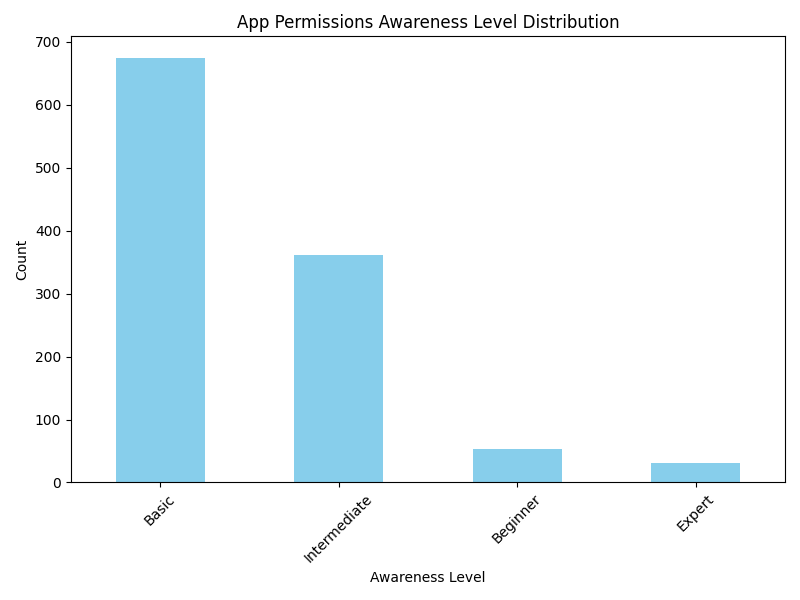
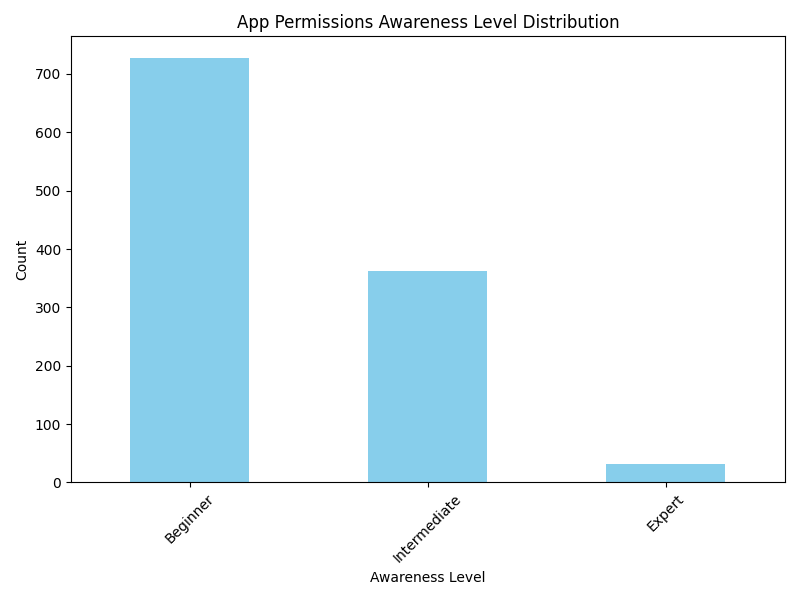
okk

diff --git a/app_permissions_educational_resources.py b/app_permissions_educational_resources.py
@@ -126,17 +126,17 @@ class AppPermissionsEducationalManager:
             score = float(quiz_score)
         except Exception:
             return "Beginner"
-        if score <= 30:
+        if score < 50:
             return "Beginner"
-        if score <= 70:
+        if score < 75:
             return "Intermediate"
-        return "Advanced"
+        return "Expert"
 
     def _expand_by_level(self, level: str, count: int = 1000) -> List[Dict]:
         variations = {
             "Beginner": ["Basics", "Getting Started", "Intro Guide", "Tips", "Foundations"],
             "Intermediate": ["Practical Use", "Manager Setup", "2FA Workflows", "Examples", "Hands-on"],
-            "Advanced": ["Threat Modeling", "Automation", "Hardware Keys", "Security Audits", "Zero Trust"]
+            "Expert": ["Threat Modeling", "Automation", "Hardware Keys", "Security Audits", "Zero Trust"]
         }
         expanded = []
         idx = 1
@@ -161,7 +161,7 @@ class AppPermissionsEducationalManager:
         return {
             "Beginner": self._expand_by_level("Beginner", 1000),
             "Intermediate": self._expand_by_level("Intermediate", 1000),
-            "Advanced": self._expand_by_level("Advanced", 1000)
+            "Expert": self._expand_by_level("Expert", 1000)
         }
 
     def generate_personalized_content(self, weak_areas: Optional[List[str]], knowledge_level: str) -> str:
@@ -206,7 +206,7 @@ class AppPermissionsEducationalManager:
         next_steps = {
             "Beginner": "Next step: Finish Beginner track; create a strong passphrase and install a password manager.",
             "Intermediate": "Next step: Practice manager workflows and enable 2FA on major accounts.",
-            "Advanced": "Next step: Implement automated rotation, hardware keys, and audit your secrets vault."
+            "Expert": "Next step: Implement automated rotation, hardware keys, and audit your secrets vault."
         }
         parts.append(next_steps.get(knowledge_level,
                      "Keep improving your security posture."))

diff --git a/app_permissions_model_trainer.py b/app_permissions_model_trainer.py
@@ -351,8 +351,6 @@ class AppPermissionsModelTrainer:
                 return 'Expert'
             elif percentage >= 50:
                 return 'Intermediate'
-            elif percentage >= 25:
-                return 'Basic'
             else:
                 return 'Beginner'
 
@@ -464,7 +462,8 @@ class AppPermissionsModelTrainer:
 
             # Save classification report to text file
             with open(os.path.join(report_folder, 'classification_report.txt'), 'w') as f:
-                f.write("Logistic Regression Model Accuracy: {:.2f}\n\n".format(accuracy))
+                f.write(
+                    "Logistic Regression Model Accuracy: {:.2f}\n\n".format(accuracy))
                 f.write("Classification Report:\n")
                 f.write(report_str)
             print("✅ Classification report saved to 'classification_report.txt'")
@@ -493,6 +492,15 @@ class AppPermissionsModelTrainer:
             plt.yticks(tick_marks, sorted(y.unique()))
             plt.ylabel('True Label')
             plt.xlabel('Predicted Label')
+
+            # Add text annotations for each cell
+            thresh = cm.max() / 2.
+            for i in range(cm.shape[0]):
+                for j in range(cm.shape[1]):
+                    plt.text(j, i, format(cm[i, j], 'd'),
+                             ha="center", va="center",
+                             color="white" if cm[i, j] > thresh else "black")
+
             plt.tight_layout()
             plt.savefig(os.path.join(report_folder, 'confusion_matrix.png'))
             plt.close()

diff --git a/app_permissions_user_tester.py b/app_permissions_user_tester.py
@@ -282,8 +282,6 @@ class AppPermissionsTester:
             overall_level = 'Expert'
         elif percentage >= 50:
             overall_level = 'Intermediate'
-        elif percentage >= 25:
-            overall_level = 'Basic'
         else:
             overall_level = 'Beginner'
 
